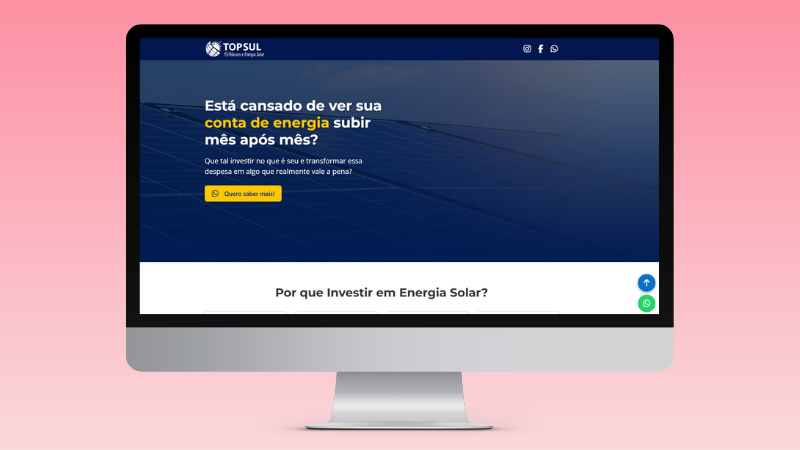
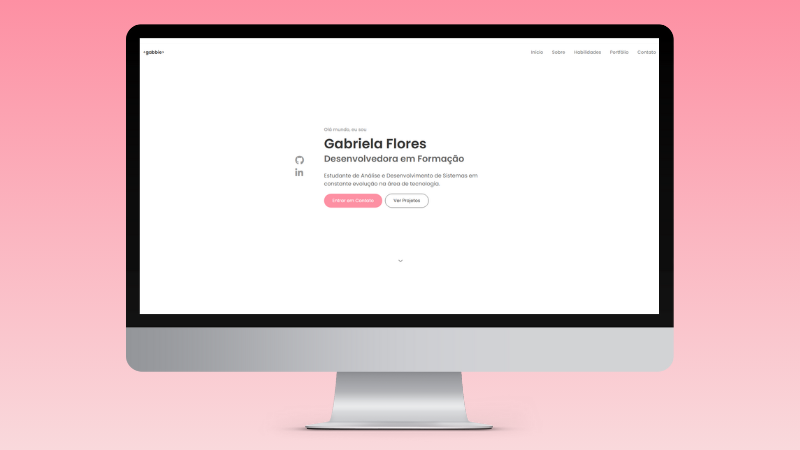
adicionando novo projeto + screenshots do portfolio

diff --git a/index.html b/index.html
@@ -152,11 +152,11 @@
 
         <!-- projeto 1 -->
         <div class="card">
-          <img src="assets/img/projetos/projeto-2.png" class="card-img-top" alt="Imagem do Projeto: Portfólio pessoal">
+          <img src="assets/img/projetos/projeto-1.png" class="card-img-top" alt="Imagem do Projeto: Portfólio pessoal">
           <div class="card-body">
             <h5 class="card-title">Portfólio</h5>
             <p class="card-text">
-              Site pessoal que apresenta projetos, competências e trajetória acadêmica.
+              Site pessoal para apresentar habilidades, projetos e trajetória acadêmica.
             </p>
             <div class="card-tech">
               <span>HTML</span>
@@ -171,11 +171,11 @@
 
         <!-- projeto 2 -->
         <div class="card">
-          <img src="assets/img/projetos/projeto-1.png" class="card-img-top" alt="Imagem do Projeto: Landingpage da TopSul Energia Solar">
+          <img src="assets/img/projetos/projeto-2.png" class="card-img-top" alt="Imagem do Projeto: Landingpage da TopSul Energia Solar">
           <div class="card-body">
             <h5 class="card-title">Landing Page - TopSul</h5>
             <p class="card-text">
-              Landing page criada para a empresa de energia solar TopSul.
+              Landing page desenvolvida para a empresa de energia solar Topsul.
             </p>
             <div class="card-tech">
               <span>HTML</span>
@@ -185,8 +185,25 @@
             <a href="https://github.com/gabbiefl/landingpage-topsul" target="_blank" class="btn" rel="noopener noreferrer" aria-label="Abrir repositório no Github"><i class="fa-solid fa-arrow-up-right-from-square"></i>Repositório</a>
           </div>
         </div>
-      </div>
 
+        <!-- projeto 3 -->
+        <div class="card">
+          <img src="assets/img/projetos/projeto-3.png" class="card-img-top" alt="Imagem do Projeto: Landingpage da TopSul Energia Solar">
+          <div class="card-body">
+            <h5 class="card-title">Mealify - Recipe Finder</h5>
+            <p class="card-text">
+              Aplicação web para busca de receitas a partir de ingredientes, integrada à API pública TheMealDB.
+            </p>
+            <div class="card-tech">
+              <span>HTML</span>
+              <span>SASS</span>
+              <span>JavaScript</span>
+            </div>
+            <a href="https://github.com/gabbiefl/mealify-recipe-finder" target="_blank" class="btn" rel="noopener noreferrer" aria-label="Abrir repositório no Github"><i class="fa-solid fa-arrow-up-right-from-square"></i>Repositório</a>
+          </div>
+        </div>
+
+      </div>
       <div class="see-more-btn-wrapper">
         <a href="https://github.com/gabbiefl" target="_blank" class="see-more-btn"><i class="fab fa-github" rel="noopener noreferrer" aria-label="Abrir perfil no Github"></i>Ver mais Projetos</a>
       </div>
